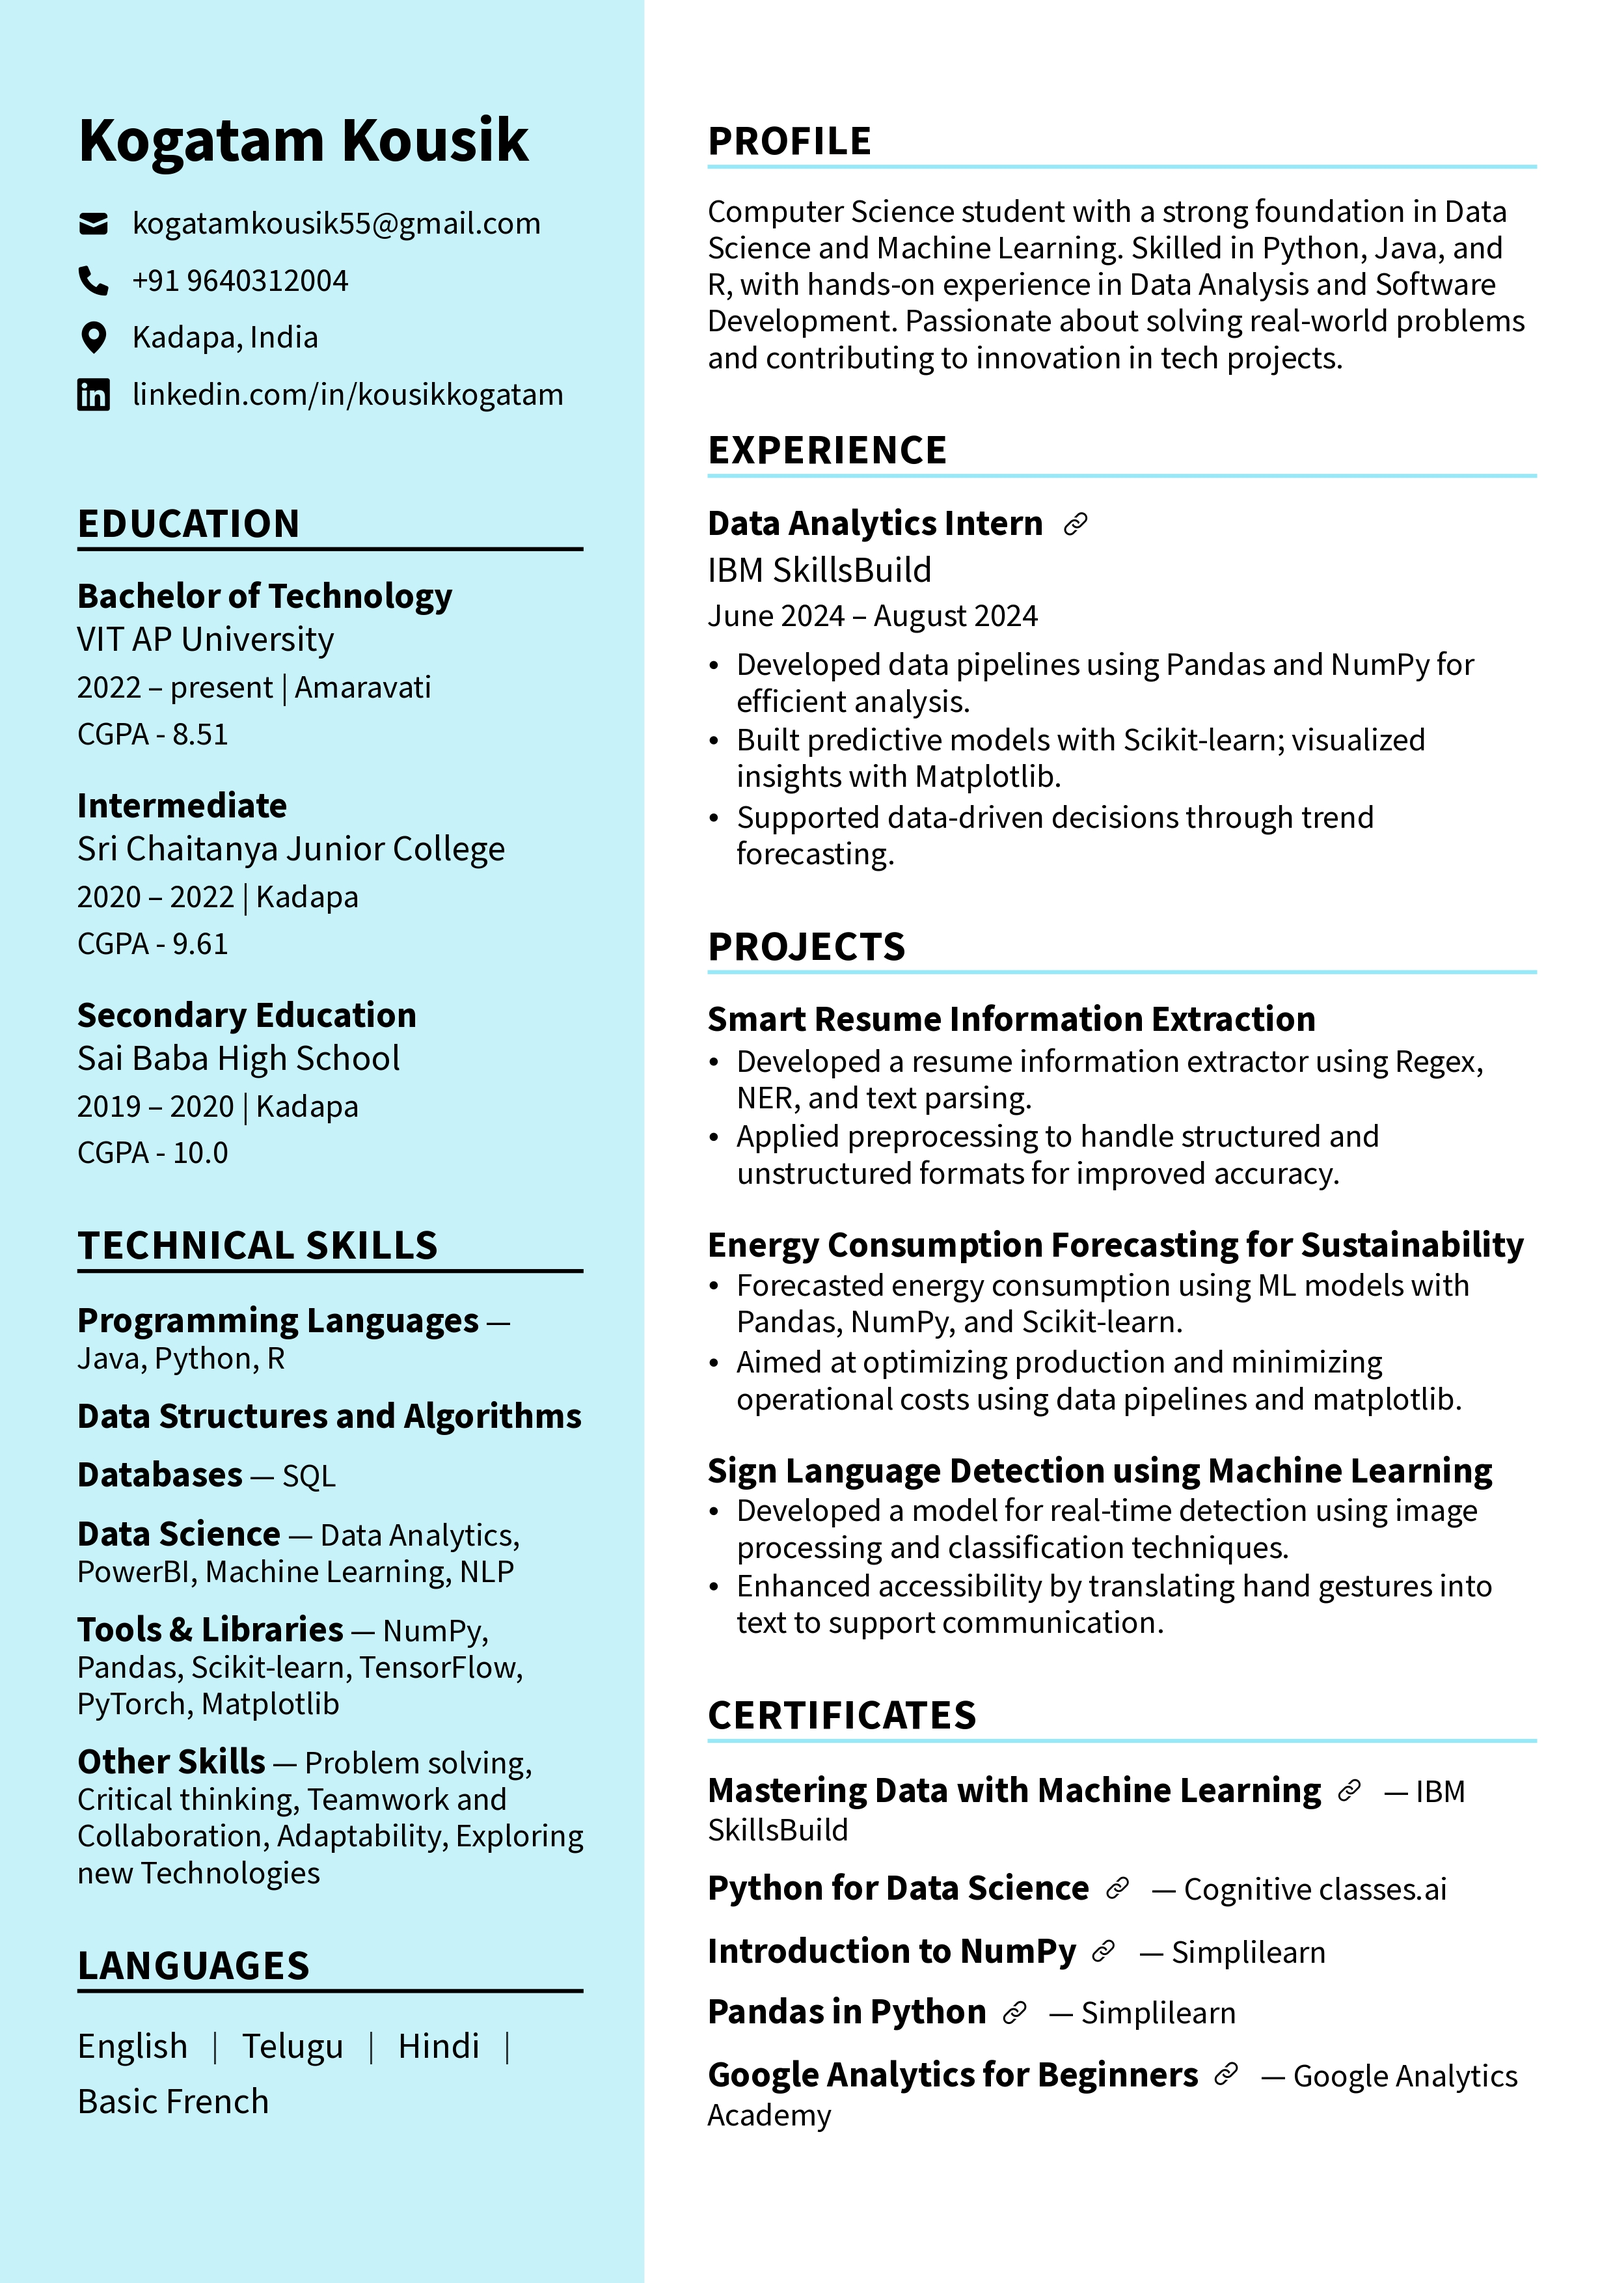
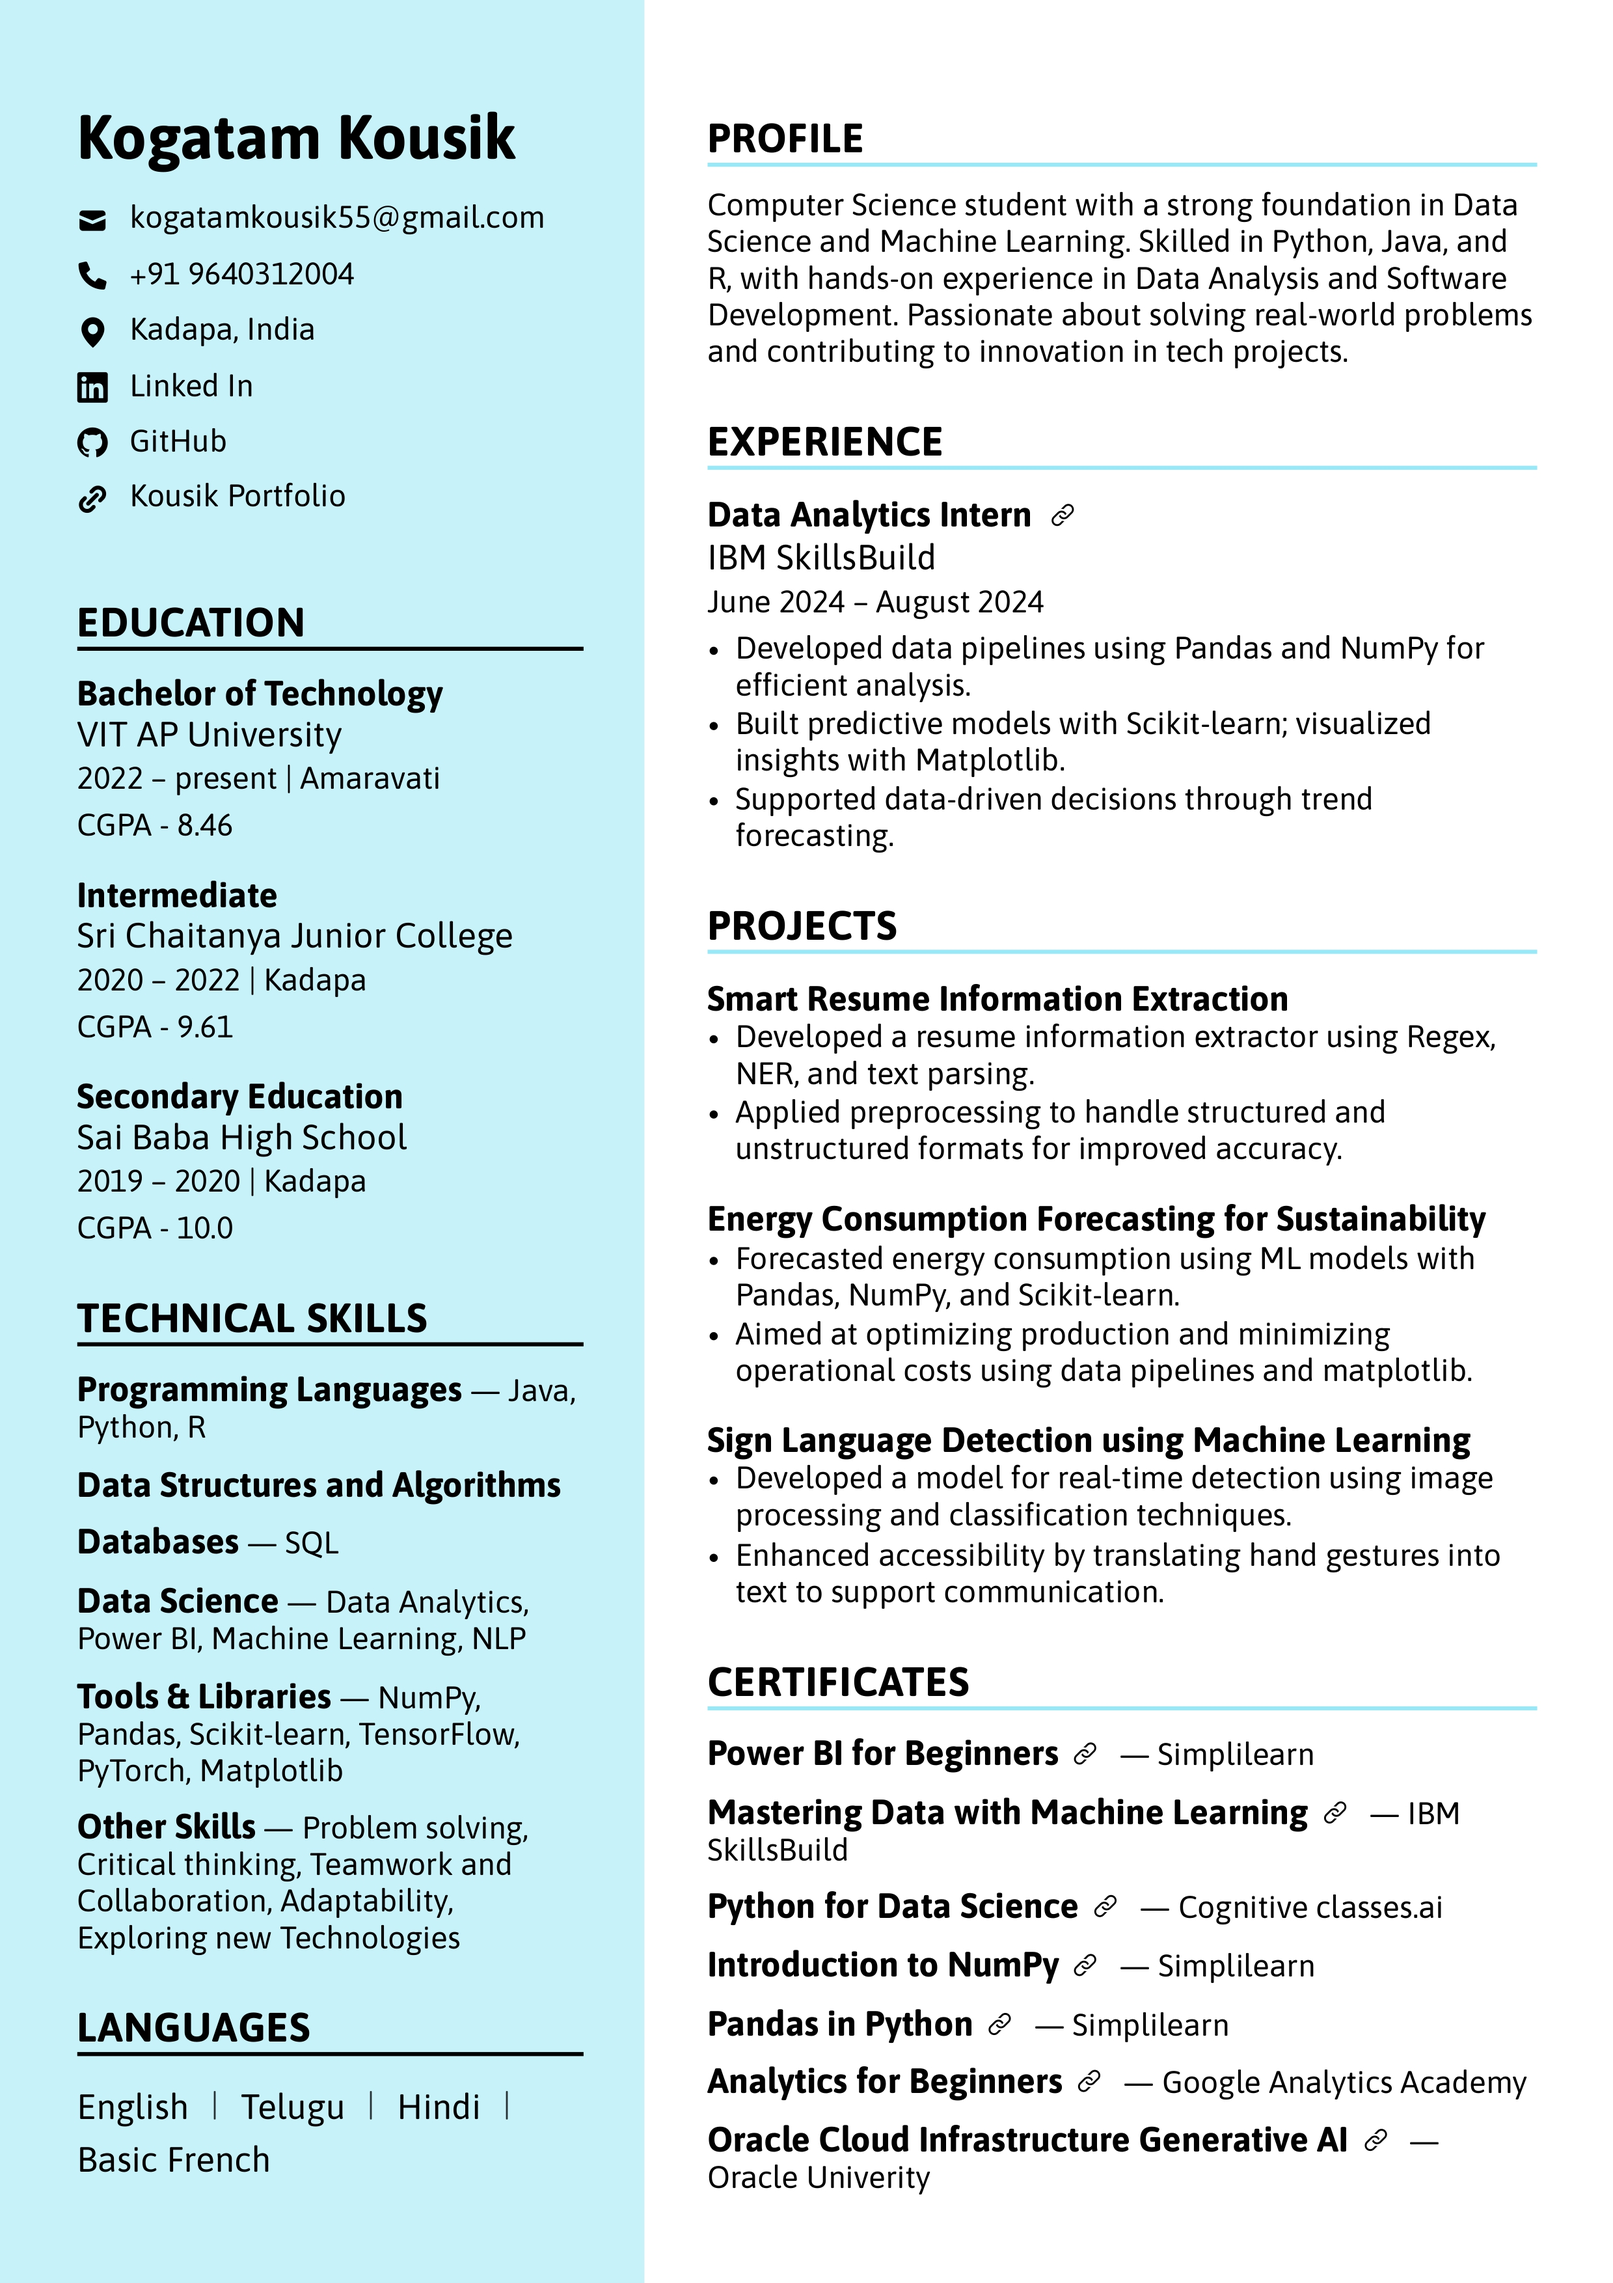
Major changes

Changed region(s): [[0.4349, 0.0311, 0.9318, 0.9632], [0.0311, 0.0311, 0.3417, 0.9632], [0.2174, 0.1554, 0.3417, 0.1864]]

diff --git a/index.html b/index.html
@@ -36,7 +36,7 @@
                 <p class="bio">Computer Science Engineering Student with knowledge in Data Analysis,<br>
                     Power BI, Machine Learning, and Data Science, and interested in Software 
                     <br>with technical skills in Python and Java.</p>
-                <a href="https://drive.google.com/file/d/1GGXUMVMXFISFKwcwkU91FBML84Lm6a7g/view?usp=sharing" class="cta-button" target="_blank">View Resume</a>
+                <a href="https://drive.google.com/file/d/1BNEYWGMOXcmPonJTMAQImjtcX8D5_PvL/view?usp=sharing" class="cta-button" target="_blank">View Resume</a>
                 <div class="intro-contact">
                     <p><i class="fas fa-envelope"></i> kogatamkousik55@gmail.com</p>
                     <p><i class="fas fa-phone"></i> +91 9640312004</p>
@@ -82,36 +82,40 @@
                         <div class="cert-img"><img src="Python for Data Science Certificate.jpg" alt="Certificate 1" /></div>
                     </div>
                     <div class="cert-item">
+                        <div class="cert-name">Power BI for Beginners</div>
+                        <div class="cert-img"><img src="Power BI for Beginners.jpg" alt="Certificate 2" /></div>
+                    </div>
+                    <div class="cert-item">
                         <div class="cert-name">Data Analytics Summer Internship Certificate</div>
-                        <div class="cert-img"><img src="IBM SkillsBuild Data Analytics.jpg" alt="Certificate 2" /></div>
-                    </div>
-                    <div class="cert-item">
-                        <div class="cert-name">Introduction to NumPy</div>
-                        <div class="cert-img"><img src="Introduction to Numpy.jpg" alt="Certificate 3" /></div>
-                    </div>
-                    <div class="cert-item">
-                        <div class="cert-name">Python Pandas Basic Course</div>
-                        <div class="cert-img"><img src="Python Pandas Basic Course.jpg" alt="Certificate 4" /></div>
-                    </div>
-                    <div class="cert-item">
-                        <div class="cert-name">Mastering Data with Machine Learning</div>
-                        <div class="cert-img"><img src="Completion Certificate -  IBM SkillsBuild AI ML Internship.jpg" alt="Certificate 5" /></div>
-                    </div>
-                    <div class="cert-item">
-                        <div class="cert-name">Google Analytics for Beginners</div>
-                        <div class="cert-img"><img src="Google Analytics for Beginners.jpg" alt="Certificate 6" /></div>
+                        <div class="cert-img"><img src="IBM SkillsBuild Data Analytics.jpg" alt="Certificate 3" /></div>
                     </div>
                     <div class="cert-item">
                         <div class="cert-name">Oracle Cloud Infrastructure - Generative AI Professional Certificate</div>
-                        <div class="cert-img"><img src="Oracle eCertificate.jpg" alt="Certificate 7" /></div>
+                        <div class="cert-img"><img src="Oracle eCertificate.jpg" alt="Certificate 4" /></div>
+                    </div>
+                    <div class="cert-item">
+                        <div class="cert-name">Introduction to NumPy</div>
+                        <div class="cert-img"><img src="Introduction to Numpy.jpg" alt="Certificate 5" /></div>
+                    </div>
+                    <div class="cert-item">
+                        <div class="cert-name">Python Pandas Basic Course</div>
+                        <div class="cert-img"><img src="Python Pandas Basic Course.jpg" alt="Certificate 6" /></div>
+                    </div>
+                    <div class="cert-item">
+                        <div class="cert-name">Mastering Data with Machine Learning</div>
+                        <div class="cert-img"><img src="Completion Certificate -  IBM SkillsBuild AI ML Internship.jpg" alt="Certificate 7" /></div>
+                    </div>
+                    <div class="cert-item">
+                        <div class="cert-name">Google Analytics for Beginners</div>
+                        <div class="cert-img"><img src="Google Analytics for Beginners.jpg" alt="Certificate 8" /></div>
                     </div>
                     <div class="cert-item">
                         <div class="cert-name">AWS Academy Cloud Foundations</div>
-                        <div class="cert-img"><img src="aws-academy-graduate-aws-academy-cloud-foundations.png" alt="Certificate 8" /></div>
+                        <div class="cert-img"><img src="aws-academy-graduate-aws-academy-cloud-foundations.png" alt="Certificate 9" /></div>
                     </div>
                     <div class="cert-item">
                         <div class="cert-name">AWS Academy Cloud Architecting</div>
-                        <div class="cert-img"><img src="aws-academy-graduate-aws-academy-cloud-architecting.png" alt="Certificate 9" /></div>
+                        <div class="cert-img"><img src="aws-academy-graduate-aws-academy-cloud-architecting.png" alt="Certificate 10" /></div>
                     </div>
                 </div>
                 <button class="cert-arrow cert-arrow-right" aria-label="Next certificate">
@@ -186,7 +190,7 @@
             <div class="resume-image-container">
                 <img src="Kousik_Kogatam_Resume.jpg" alt="Resume" class="resume-image" />
             </div>
-            <a href="https://drive.google.com/file/d/1FofupQ9wrWFyussAJx99yzQuScAJyGBo/view?usp=sharing" target="_blank" class="cta-button">Download Resume</a>
+            <a href="https://drive.google.com/file/d/1BNEYWGMOXcmPonJTMAQImjtcX8D5_PvL/view?usp=sharing" target="_blank" class="cta-button">Download Resume</a>
         </div>
     </section>
 
